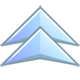
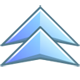
优化"go to top"

Changed region(s): [[0.0, 0.05, 1.0, 0.825]]

diff --git a/public/stylesheets/style.css b/public/stylesheets/style.css
@@ -1353,6 +1353,8 @@ table th img {
 
 #go_top {
     background: url(/img/top.png);
+    opacity: 0.75;
+    filter:alpha(opacity=75);
     width: 80px;
     height: 80px;
     position: fixed;
@@ -1361,7 +1363,8 @@ table th img {
 }
 
 #go_top:hover {
-    background:  url(/img/top_hover.png);
+    opacity: 1.0;
+    filter:alpha(opacity=100);
     cursor: pointer;
 }
 
